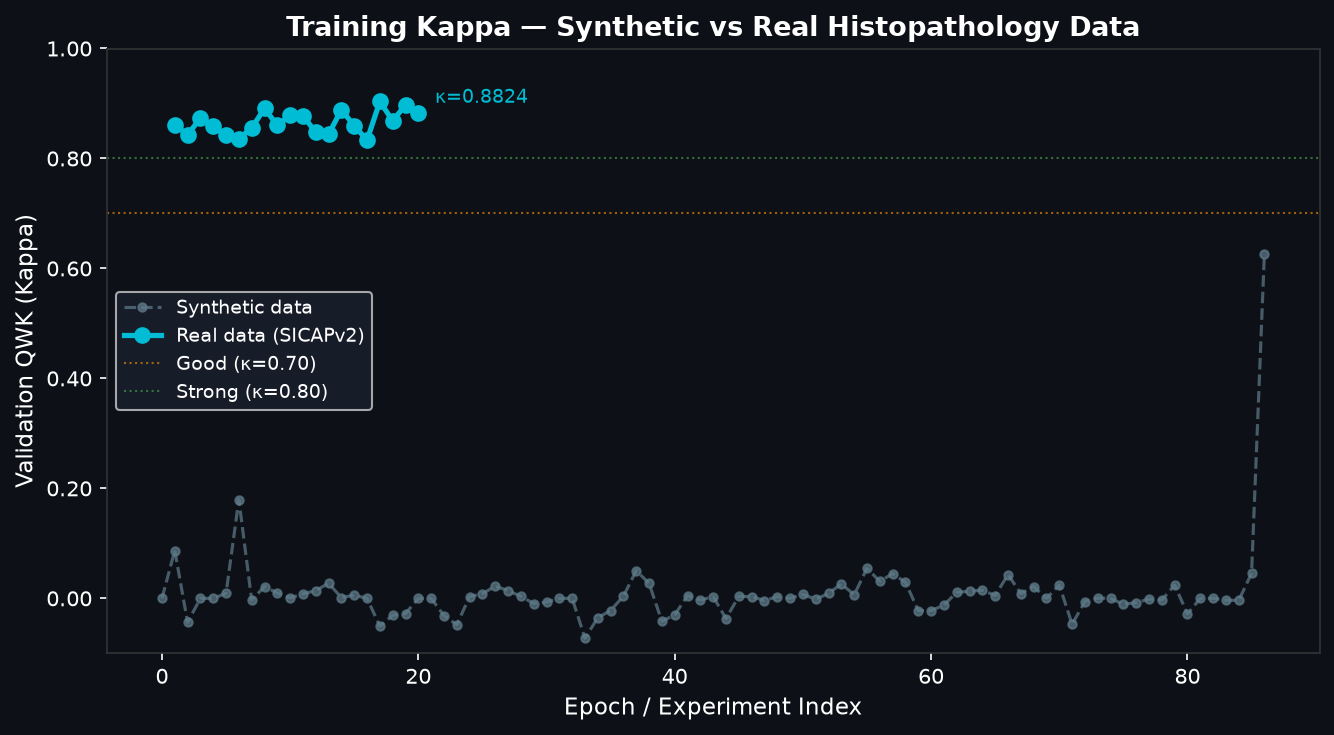
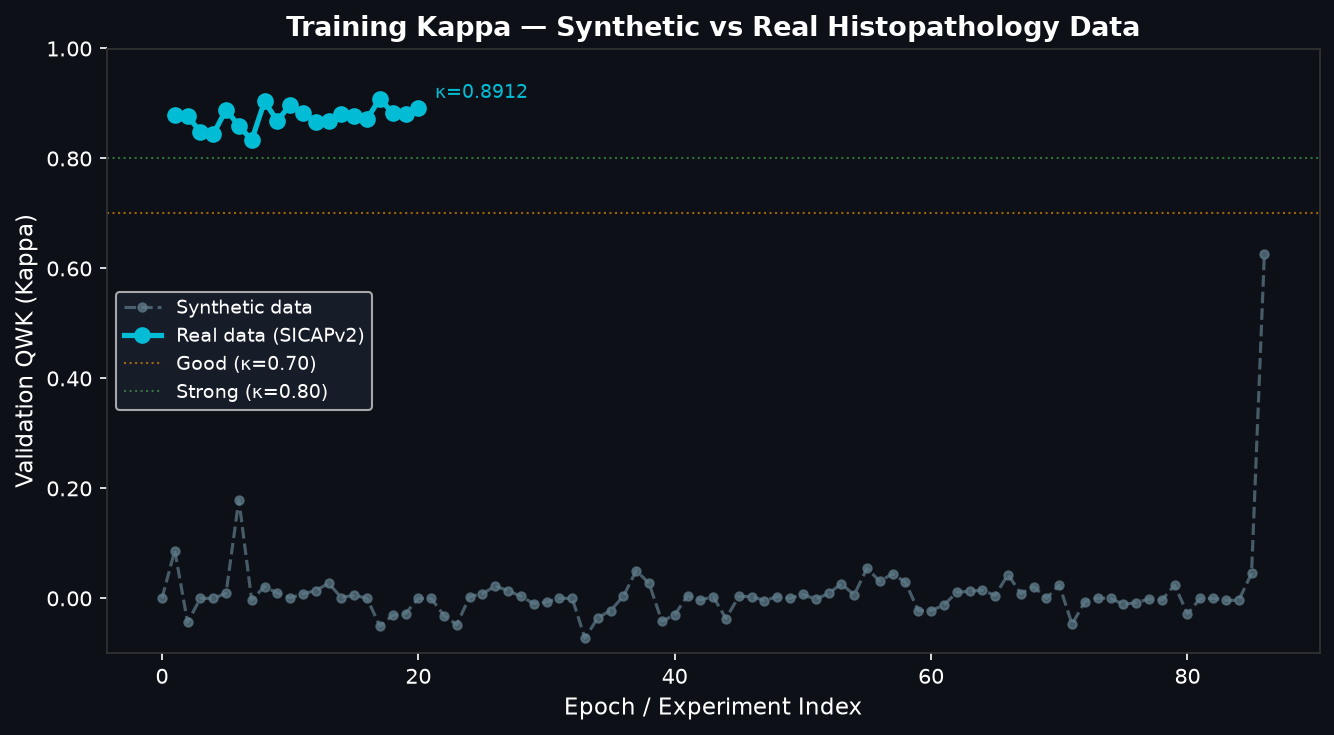
docs(auto): update results & paper after sweep backbone=resnet50 kappa=[latest]

Changed region(s): [[0.1229, 0.1197, 0.3996, 0.2095]]

diff --git a/docs/RESULTS.md b/docs/RESULTS.md
@@ -1,6 +1,6 @@
 # Prostate CADx — Experiment Results
 
-> Auto-generated: 2026-07-16 22:40 UTC
+> Auto-generated: 2026-07-16 23:57 UTC
 
 ## Summary (Best Real-Data Run)
 
@@ -690,6 +690,15 @@
 | 667 | 2026-07-16 22:28:11 | Real (SICAPv2) | 7 | 32 | 0.8684 | 0.8284 |
 | 668 | 2026-07-16 22:34:54 | Real (SICAPv2) | 8 | 32 | 0.8975 | 0.6838 |
 | 669 | 2026-07-16 22:40:48 | Real (SICAPv2) | 9 | 32 | 0.8824 | 0.7312 |
+| 670 | 2026-07-16 23:00:48 | Real (SICAPv2) | 1 | 32 | 0.8668 | 0.4755 |
+| 671 | 2026-07-16 23:08:27 | Real (SICAPv2) | 2 | 32 | 0.8678 | 0.5091 |
+| 672 | 2026-07-16 23:16:00 | Real (SICAPv2) | 3 | 32 | 0.8814 | 0.5628 |
+| 673 | 2026-07-16 23:22:50 | Real (SICAPv2) | 4 | 32 | 0.8772 | 0.6006 |
+| 674 | 2026-07-16 23:29:30 | Real (SICAPv2) | 5 | 32 | 0.8721 | 0.5625 |
+| 675 | 2026-07-16 23:36:11 | Real (SICAPv2) | 6 | 32 | 0.9087 | 0.5426 |
+| 676 | 2026-07-16 23:42:54 | Real (SICAPv2) | 7 | 32 | 0.8825 | 0.6449 |
+| 677 | 2026-07-16 23:49:55 | Real (SICAPv2) | 8 | 32 | 0.8800 | 0.6822 |
+| 678 | 2026-07-16 23:57:06 | Real (SICAPv2) | 9 | 32 | 0.8912 | 0.5933 |
 
 ---
 
@@ -698,8 +707,8 @@
 | Metric | Synthetic (Fallback) | Real (SICAPv2) |
 |--------|---------------------|----------------|
 | Best Val Kappa | 0.6269 | **0.9234** |
-| Mean Val Kappa | 0.0103 | 0.8548 |
-| N Experiments | 87 | 582 |
+| Mean Val Kappa | 0.0103 | 0.8552 |
+| N Experiments | 87 | 591 |
 
 ---
 